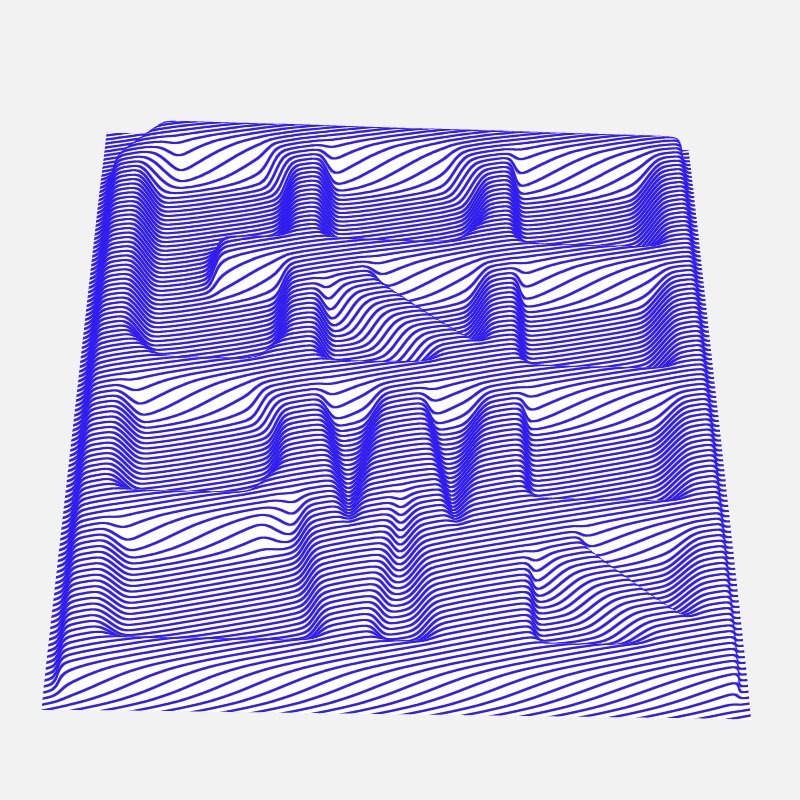
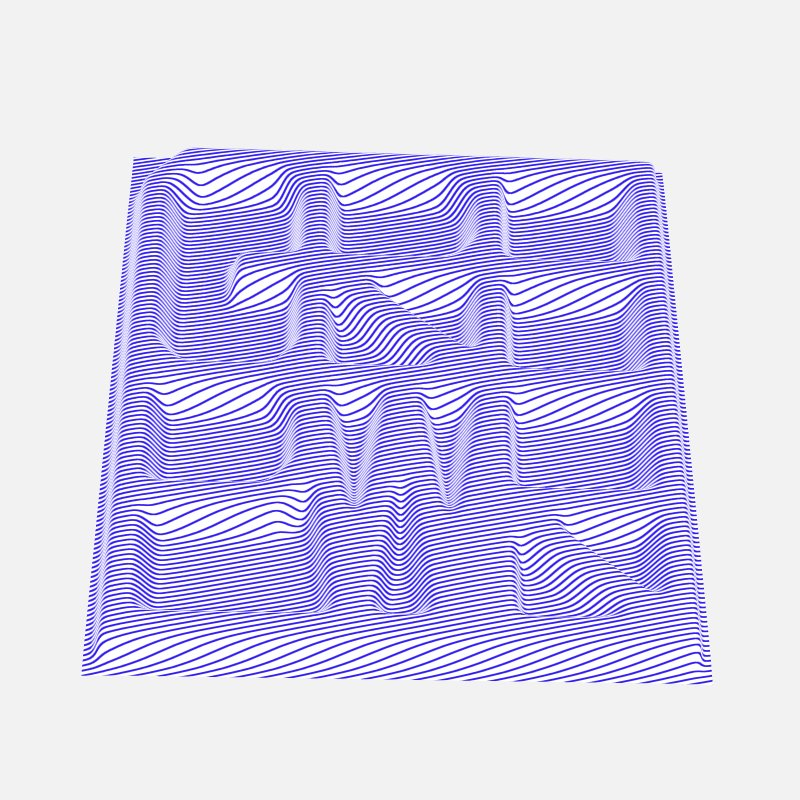
lines: smaller plate on phones; a tap sends a red ripple and crowds the lines in, which go back to the usual number as it settles; lines thin out instead of closing up when dense

diff --git a/dist/assets/index.d0ae9d2b.js b/dist/assets/index.d0ae9d2b.js
@@ -1,0 +1,38 @@
+import"./modulepreload-polyfill.b7f2da20.js";import{E as S}from"./embed.d17cc095.js";import{p as m,_ as A,ae as D,q as I,v as G,z as X,aq as _,an as F,U as W,X as q,w as H,at as z,J as w,ar as Y,K as j}from"./vendor.e03c1737.js";import{c as M,a as L,b as K,L as V}from"./logo-path.248ebb5a.js";const n={ink:new m("#311eee"),wave:new m("#ff0000"),plate:new m("#ffffff"),lines:120,tapLines:90,angle:.2,lift:.1,plateXs:.72,plateLg:.42,rest:{x:-.5,y:0},turn:{x:[-1.2,-.1],y:[-.7,.7]},margin:.025},s=512;function B(){const e=n.margin*s,a=document.createElement("canvas");a.width=a.height=s;const t=a.getContext("2d");t.fillStyle="#000",t.fillRect(0,0,s,s),t.translate(e,e),t.scale((s-2*e)/M,(s-2*e)/M),t.translate(-L,-L),t.lineWidth=K,t.strokeStyle="#fff",t.stroke(new Path2D(V));const o=document.createElement("canvas");o.width=o.height=s;const i=o.getContext("2d");return i.fillStyle="#000",i.fillRect(0,0,s,s),i.globalCompositeOperation="lighter",i.globalAlpha=.82,i.filter=`blur(${s*.009}px)`,i.drawImage(a,0,0),i.globalAlpha=.18,i.filter=`blur(${s*.03}px)`,i.drawImage(a,0,0),o}const g=new A(B());g.minFilter=D;g.generateMipmaps=!1;const d=document.getElementById("lines"),v=new I({canvas:d,antialias:!0});v.setClearColor(15921906,1);const E=new G,l=new X(30,1,.1,100),c={height:{value:g},lift:{value:n.lift},ink:{value:n.ink},wave:{value:n.wave},plate:{value:n.plate},count:{value:n.lines},dir:{value:new w(-Math.sin(n.angle),Math.cos(n.angle))},dpr:{value:1},rippleAt:{value:new w(0,0)},rippleT:{value:99}},N=new _({uniforms:c,side:F,extensions:{derivatives:!0},vertexShader:`
+    uniform sampler2D height;
+    uniform float lift, rippleT;
+    uniform vec2 rippleAt;
+    varying vec2 vP;
+    varying float vRed;
+    float env(vec2 p) {
+      if (rippleT > 4.0) return 0.0;
+      float r = distance(p, rippleAt);
+      return exp(-pow((r - rippleT * 0.55) / 0.2, 2.0)) * exp(-rippleT * 0.7);
+    }
+    void main() {
+      vP = position.xy; // plate units, -0.5..0.5
+      float e = env(vP);
+      float r = distance(vP, rippleAt) - rippleT * 0.55;
+      vRed = e;
+      float h = texture2D(height, uv).r * lift + sin(r * 30.0) * e * 0.06;
+      gl_Position = projectionMatrix * modelViewMatrix * vec4(position.xy, h, 1.0);
+    }`,fragmentShader:`
+    uniform vec3 ink, plate, wave;
+    uniform float count, dpr;
+    uniform vec2 dir;
+    varying vec2 vP;
+    varying float vRed;
+    void main() {
+      // Lines a constant ~0.8 px wide whatever the slope or the turn (measured through fwidth), but
+      // never more than a quarter of the gap: where they crowd \u2014 steep flanks, more lines after a
+      // tap \u2014 they thin out instead of closing up, so the plate keeps its white.
+      float s = dot(vP, dir) * count;
+      float fw = max(fwidth(s), 1e-4);
+      float d = abs(fract(s + 0.5) - 0.5);
+      float hw = min(0.4 * dpr * fw, 0.25);
+      float a = 1.0 - smoothstep(hw - 0.6 * fw, hw + 0.6 * fw, d);
+      a *= clamp(hw / fw * 1.5, 0.35, 1.0); // sub-pixel lines fade rather than flicker
+      // the ripple's ring turns the lines red as it passes
+      vec3 col = mix(ink, wave, smoothstep(0.25, 0.7, vRed));
+      gl_FragColor = vec4(mix(plate, col, a), 1.0);
+    }`}),x=new W(new q(1,1,400,400),N),y=new H;y.add(x);E.add(y);function T(){const e=window.innerWidth,a=window.innerHeight,t=Math.min(window.devicePixelRatio||1,2);v.setPixelRatio(t),v.setSize(e,a,!1),c.dpr.value=t,l.aspect=e/a;const o=Math.min(e<=768?n.plateXs:n.plateLg,.8*a/e),h=1/o/l.aspect;l.position.set(0,0,h/2/Math.tan(Y.degToRad(l.fov/2))),l.updateProjectionMatrix()}window.addEventListener("resize",T);T();const f={x:n.rest.x,y:n.rest.y},p={x:n.rest.x,y:n.rest.y};let r=null,O=-99;const P=(e,[a,t])=>Math.max(a,Math.min(t,e)),b=new z;d.addEventListener("pointerdown",e=>{r={id:e.pointerId,x:e.clientX,y:e.clientY,ox:f.x,oy:f.y,t:performance.now()},d.setPointerCapture(e.pointerId)});d.addEventListener("pointermove",e=>{!r||e.pointerId!==r.id||(f.y=P(r.oy+(e.clientX-r.x)*.006,n.turn.y),f.x=P(r.ox+(e.clientY-r.y)*.006,n.turn.x))});const k=e=>{if(!r||e.pointerId!==r.id)return;const a=e.type==="pointerup"&&Math.hypot(e.clientX-r.x,e.clientY-r.y)<12&&performance.now()-r.t<350;if(r=null,!a)return;const t=new w(e.clientX/window.innerWidth*2-1,-(e.clientY/window.innerHeight)*2+1);b.setFromCamera(t,l);const o=b.intersectObject(x)[0],i=o?x.worldToLocal(o.point.clone()):new j;c.rippleAt.value.set(i.x,i.y),O=performance.now()};d.addEventListener("pointerup",k);d.addEventListener("pointercancel",k);S||window.addEventListener("touchmove",e=>e.preventDefault(),{passive:!1});const U=performance.now();function C(e){const a=(e-U)/1e3;p.x+=(f.x-p.x)*.1,p.y+=(f.y-p.y)*.1,y.rotation.set(p.x+Math.sin(a*.3)*.03,p.y+Math.sin(a*.21+1)*.05,0),c.rippleT.value=(e-O)/1e3;const t=c.rippleT.value,o=(i,h,R)=>{const u=Math.min(1,Math.max(0,(R-i)/(h-i)));return u*u*(3-2*u)};c.count.value=n.lines+n.tapLines*o(0,.25,t)*(1-o(.8,3,t)),v.render(E,l),requestAnimationFrame(C)}requestAnimationFrame(C);

diff --git a/src/lines/main.ts b/src/lines/main.ts
@@ -3,7 +3,8 @@
 // ridges in front hiding the lines behind them. It is a real surface: the heights come from the mark
 // blurred at two widths, the lines are painted on the surface in the shader at a constant pixel
 // width, so turning the plate in 3D (drag) keeps the hidden-line look from every side.
-// A tap drops a stone: a ring of ripples runs out over the plate from where it landed.
+// A tap drops a stone: a red ring of ripples runs out over the plate from where it landed, the
+// lines crowd in for the moment, and as the plate settles they go back to their usual number.
 import '../core/embed'
 import { EMBEDDED } from '../core/embed'
 import * as THREE from 'three'
@@ -12,11 +13,13 @@ import './lines.css'
 
 const LOOK = {
   ink: new THREE.Color('#311eee'),
+  wave: new THREE.Color('#ff0000'), // the ripple's ring
   plate: new THREE.Color('#ffffff'),
   lines: 120, // across the plate
+  tapLines: 90, // a tap adds this many for a moment; they go as the plate settles
   angle: 0.2, // radians the lines rise from horizontal
   lift: 0.1, // relief height, plate widths
-  plateXs: 0.86, // plate width / screen width on a phone
+  plateXs: 0.72, // plate width / screen width on a phone
   plateLg: 0.42,
   rest: { x: -0.5, y: 0.0 }, // radians: the plate tipped back so the relief lifts the lines
   turn: { x: [-1.2, -0.1], y: [-0.7, 0.7] },
@@ -67,6 +70,7 @@ const uniforms = {
   height: { value: heightTex },
   lift: { value: LOOK.lift },
   ink: { value: LOOK.ink },
+  wave: { value: LOOK.wave },
   plate: { value: LOOK.plate },
   count: { value: LOOK.lines },
   dir: { value: new THREE.Vector2(-Math.sin(LOOK.angle), Math.cos(LOOK.angle)) },
@@ -84,30 +88,39 @@ const material = new THREE.ShaderMaterial({
     uniform float lift, rippleT;
     uniform vec2 rippleAt;
     varying vec2 vP;
-    float ripple(vec2 p) {
+    varying float vRed;
+    float env(vec2 p) {
       if (rippleT > 4.0) return 0.0;
       float r = distance(p, rippleAt);
-      float front = rippleT * 0.55;
-      float env = exp(-pow((r - front) / 0.2, 2.0)) * exp(-rippleT * 0.7);
-      return sin((r - front) * 30.0) * env * 0.06;
+      return exp(-pow((r - rippleT * 0.55) / 0.2, 2.0)) * exp(-rippleT * 0.7);
     }
     void main() {
       vP = position.xy; // plate units, -0.5..0.5
-      float h = texture2D(height, uv).r * lift + ripple(vP);
+      float e = env(vP);
+      float r = distance(vP, rippleAt) - rippleT * 0.55;
+      vRed = e;
+      float h = texture2D(height, uv).r * lift + sin(r * 30.0) * e * 0.06;
       gl_Position = projectionMatrix * modelViewMatrix * vec4(position.xy, h, 1.0);
     }`,
   fragmentShader: /* glsl */ `
-    uniform vec3 ink, plate;
+    uniform vec3 ink, plate, wave;
     uniform float count, dpr;
     uniform vec2 dir;
     varying vec2 vP;
+    varying float vRed;
     void main() {
-      // distance to the nearest line, measured in screen pixels, so every line is ~0.8 px wide
-      // whatever the slope or the turn; steep flanks crowd the lines together, as in an engraving
+      // Lines a constant ~0.8 px wide whatever the slope or the turn (measured through fwidth), but
+      // never more than a quarter of the gap: where they crowd — steep flanks, more lines after a
+      // tap — they thin out instead of closing up, so the plate keeps its white.
       float s = dot(vP, dir) * count;
-      float d = abs(fract(s + 0.5) - 0.5) / max(fwidth(s), 1e-4);
-      float a = 1.0 - smoothstep(0.25 * dpr, 0.8 * dpr, d);
-      gl_FragColor = vec4(mix(plate, ink, a), 1.0);
+      float fw = max(fwidth(s), 1e-4);
+      float d = abs(fract(s + 0.5) - 0.5);
+      float hw = min(0.4 * dpr * fw, 0.25);
+      float a = 1.0 - smoothstep(hw - 0.6 * fw, hw + 0.6 * fw, d);
+      a *= clamp(hw / fw * 1.5, 0.35, 1.0); // sub-pixel lines fade rather than flicker
+      // the ripple's ring turns the lines red as it passes
+      vec3 col = mix(ink, wave, smoothstep(0.25, 0.7, vRed));
+      gl_FragColor = vec4(mix(plate, col, a), 1.0);
     }`,
 })
 const plateMesh = new THREE.Mesh(new THREE.PlaneGeometry(1, 1, 400, 400), material)
@@ -174,6 +187,13 @@ function frame(now: number) {
   // a slow sway so the relief keeps catching the eye
   pivot.rotation.set(pose.x + Math.sin(t * 0.3) * 0.03, pose.y + Math.sin(t * 0.21 + 1) * 0.05, 0)
   uniforms.rippleT.value = (now - rippleStart) / 1000
+  // a tap crowds the lines in quickly, and they ease back to the usual number as the ripple dies
+  const rt = uniforms.rippleT.value
+  const ss = (a: number, b: number, x: number) => {
+    const k = Math.min(1, Math.max(0, (x - a) / (b - a)))
+    return k * k * (3 - 2 * k)
+  }
+  uniforms.count.value = LOOK.lines + LOOK.tapLines * ss(0, 0.25, rt) * (1 - ss(0.8, 3.0, rt))
   renderer.render(scene, camera)
   requestAnimationFrame(frame)
 }

diff --git a/dist/lines/index.html b/dist/lines/index.html
@@ -23,7 +23,7 @@
     <meta name="twitter:title" content="GRBPWR — Lines" />
     <meta name="twitter:description" content="Generative studies of the GRBPWR mark." />
     <meta name="twitter:image" content="https://art.grbpwr.com/og.png" />
-  <script type="module" crossorigin src="/assets/index.7b0cad3d.js"></script>
+  <script type="module" crossorigin src="/assets/index.d0ae9d2b.js"></script>
   <link rel="modulepreload" href="/assets/modulepreload-polyfill.b7f2da20.js">
   <link rel="modulepreload" href="/assets/embed.d17cc095.js">
   <link rel="modulepreload" href="/assets/vendor.e03c1737.js">
